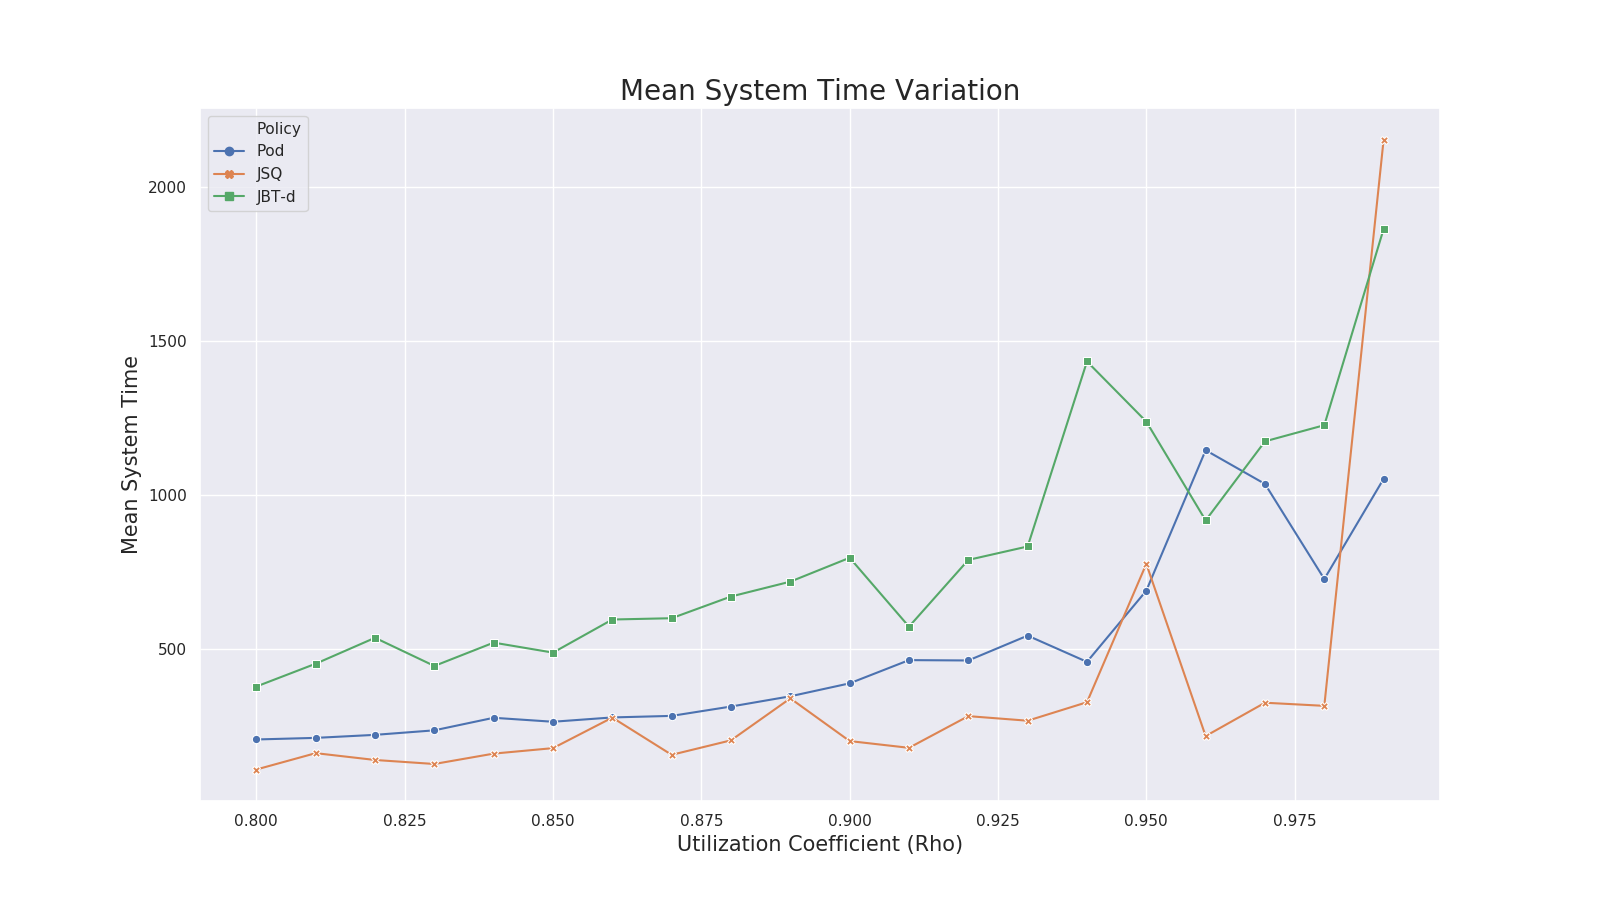
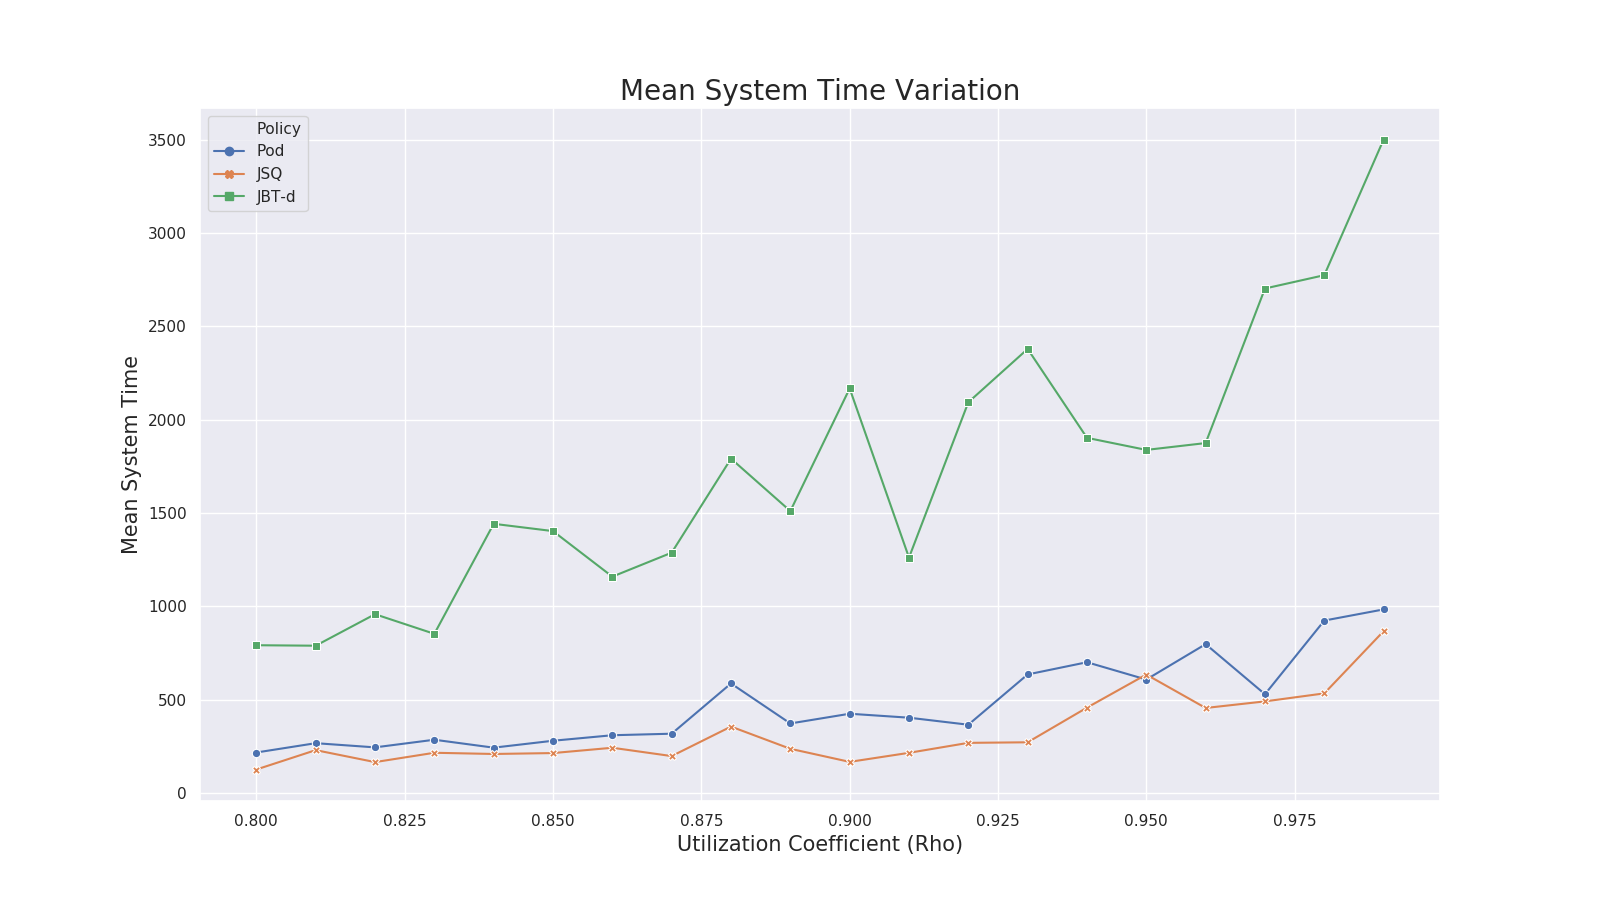
Minor change

diff --git a/main.py b/main.py
@@ -6,7 +6,7 @@ from time import time
 from simulation_utils import Simulator, plot
 
 
-number_of_tasks = (10**4)
+number_of_tasks = (10**5)
 number_of_servers = 20
 d = 3
 rho_values = np.arange(0.8, 1., 0.01)

diff --git a/Dispatcher.py b/Dispatcher.py
@@ -13,7 +13,7 @@ class Dispatcher:
     y = 10
     t_0 = 1
     alpha = 0.5
-    t = 100*t_0
+    t = 1000*t_0
 
     def __init__(self, number_of_tasks: int,
                  number_of_servers: int,
